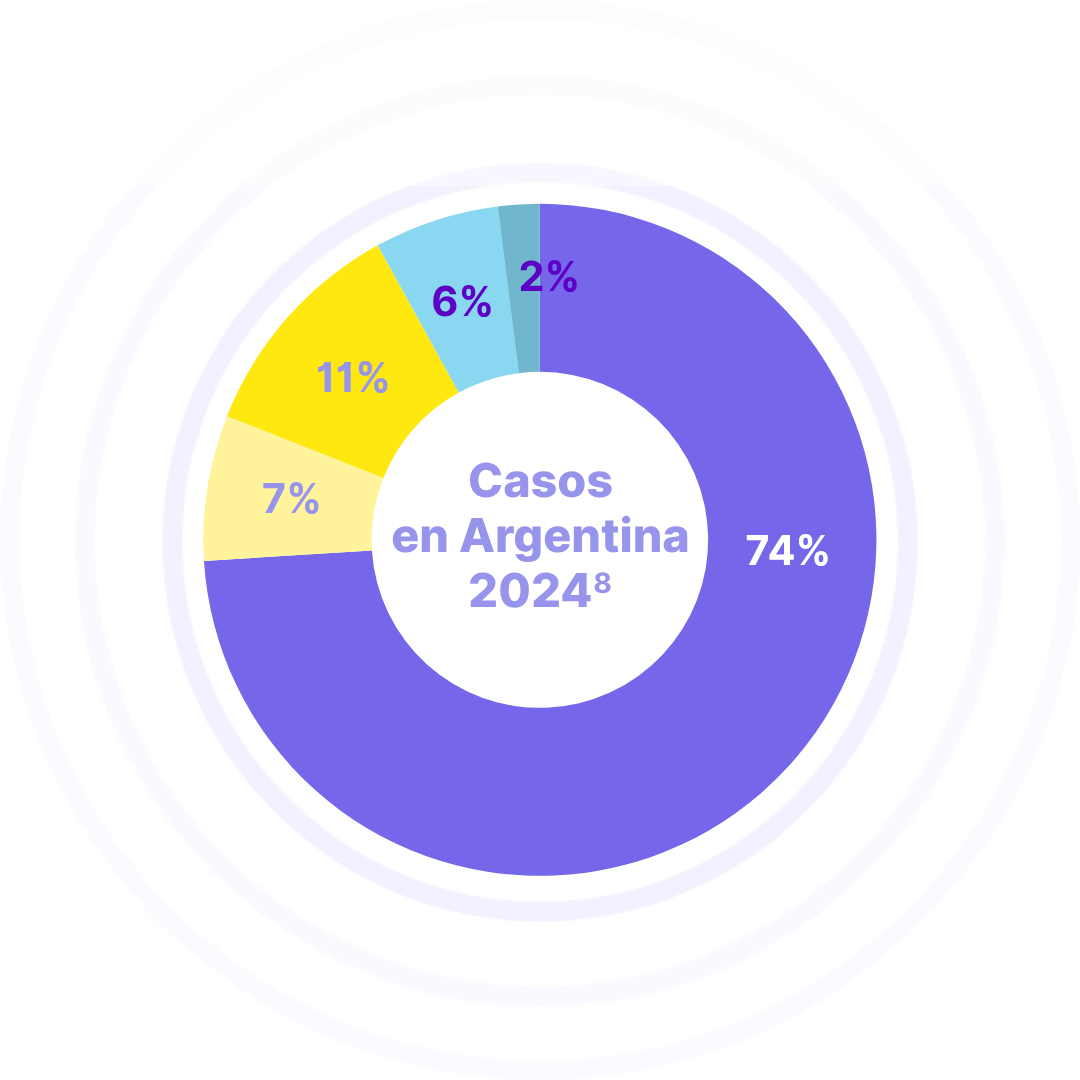
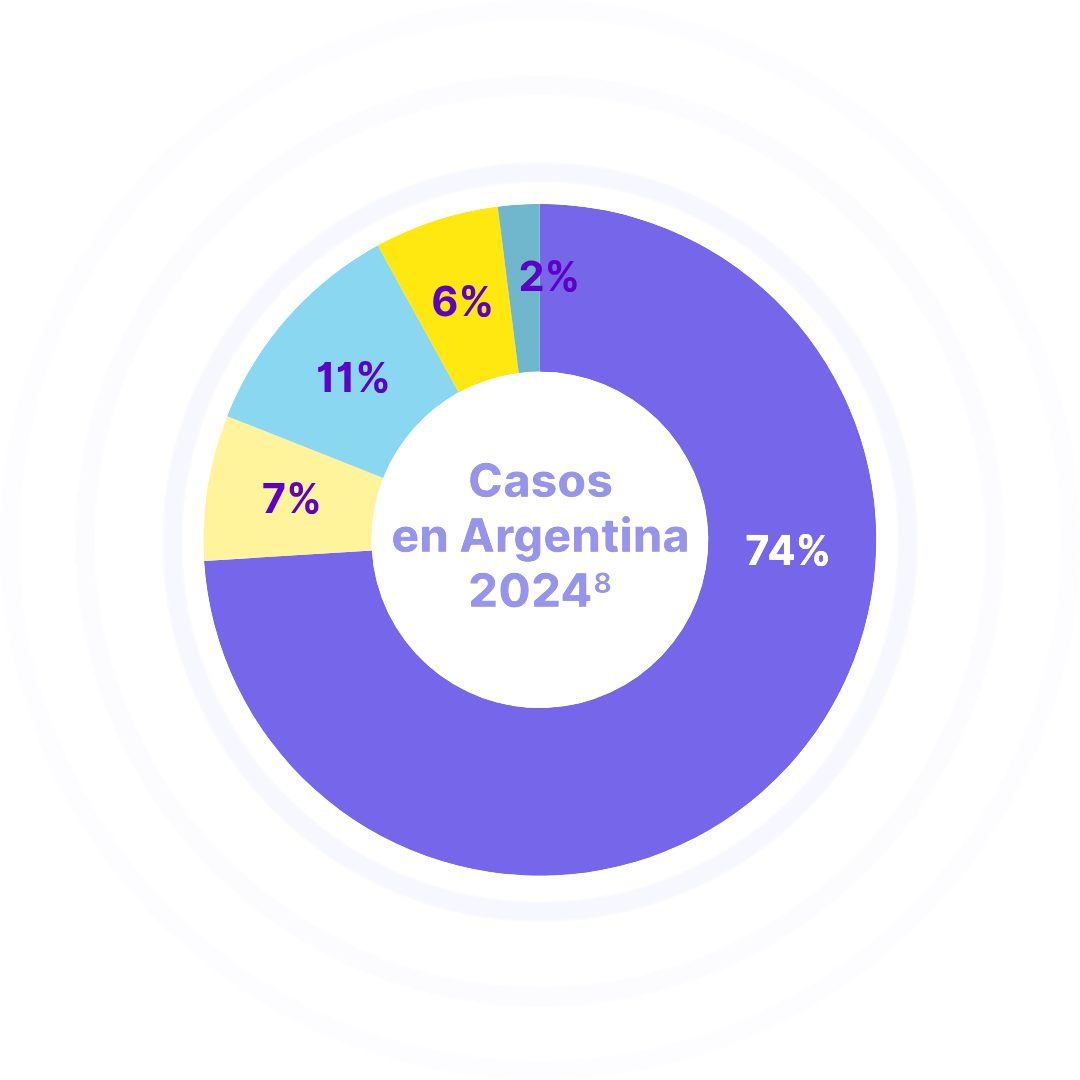
chore: cambio de grafico

Changed region(s): [[0.2139, 0.1833, 0.4889, 0.4889]]

diff --git a/styles.css b/styles.css
@@ -7738,14 +7738,14 @@ button.btn-close {
 
 
 .color-box.serogrupo-b {
-    background: #7566ea;
+    background: #7566EA;
     width: 18px;
     height: 18px;
     border-radius: 4px;
 }
 
 .color-box.serogrupo-w {
-    background: #fff49b;
+    background: #89D7F0;
     width: 18px;
     height: 18px;
     border-radius: 4px;
@@ -7753,21 +7753,21 @@ button.btn-close {
 }
 
 .color-box.serogrupo-c {
-    background: #5b4fb8;
+    background: #FFF49B;
     width: 18px;
     height: 18px;
     border-radius: 4px;
 }
 
 .color-box.serogrupo-y {
-    background: #89d7f0;
+    background: #FFE710;
     width: 18px;
     height: 18px;
     border-radius: 4px;
 }
 
 .color-box.serogrupo-ng {
-    background: #70b6cd;
+    background: #70B6CD;
     width: 18px;
     height: 18px;
     border-radius: 4px;
